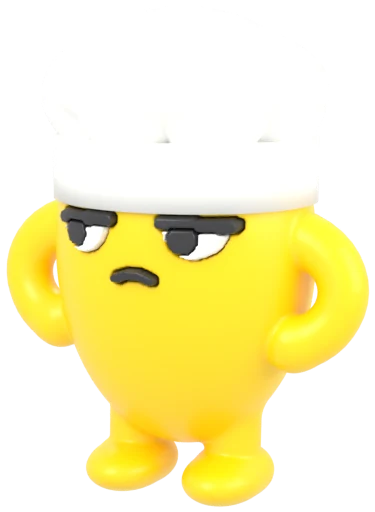
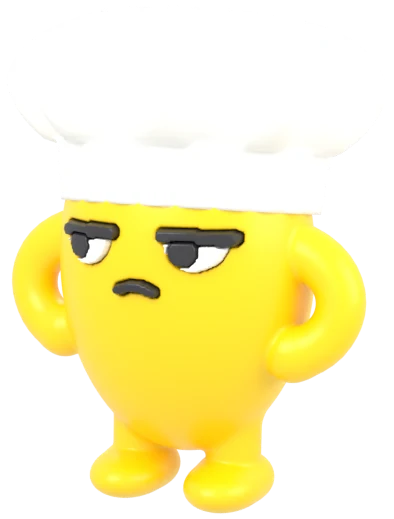
Collection : variantes retravaillées (bonnet ajusté, vraie toque, drap de fantôme, Zeste doré couronné sur socle)
Claude-Session: https://claude.ai/code/session_01TrTqVLma8bUChQu6ezP7G3

diff --git a/index.html b/index.html
@@ -936,7 +936,7 @@
       <h2 id="t-mascottes">La collection Noméo</h2>
       <p class="mg-intro">Flocon, Zeste et Dodo en mini-figurines à collectionner, offertes avec vos commandes. Chaque figurine est numérotée, a sa rareté et arrive avec sa carte de collection. Une nouvelle série à chaque saison.</p>
       <div class="cl-head"><h3>Série 1 · Hiver 2026</h3><ul class="cl-legend" aria-label="Raretés"><li class="cl-c">Commune</li><li class="cl-r">Rare</li><li class="cl-sr">Super rare</li><li class="cl-l">Légendaire</li><li class="cl-s">Secrète</li></ul></div>
-      <ul class="cl-grid"><li class="cl-card k-c"><div class="cl-img"><img src="img/fig-001-flocon.webp" alt="" width="409" height="513" loading="lazy" decoding="async"></div><span class="cl-no">N°001</span><h3>Flocon</h3><span class="cl-badge">Commune</span></li><li class="cl-card k-c"><div class="cl-img"><img src="img/fig-002-zeste.webp" alt="" width="391" height="523" loading="lazy" decoding="async"></div><span class="cl-no">N°002</span><h3>Zeste</h3><span class="cl-badge">Commune</span></li><li class="cl-card k-c"><div class="cl-img"><img src="img/fig-003-dodo.webp" alt="" width="320" height="512" loading="lazy" decoding="async"></div><span class="cl-no">N°003</span><h3>Dodo</h3><span class="cl-badge">Commune</span></li><li class="cl-card k-r"><div class="cl-img cl-hid"><img src="img/fig-004-flocon-noel.webp" alt="" width="340" height="510" loading="lazy" decoding="async"><span class=cl-mq aria-hidden=true>?</span></div><span class="cl-no">N°004</span><h3>Flocon de Noël</h3><span class="cl-badge">Rare</span></li><li class="cl-card k-r"><div class="cl-img cl-hid"><img src="img/fig-005-zeste-pizzaiolo.webp" alt="" width="375" height="512" loading="lazy" decoding="async"><span class=cl-mq aria-hidden=true>?</span></div><span class="cl-no">N°005</span><h3>Zeste pizzaïolo</h3><span class="cl-badge">Rare</span></li><li class="cl-card k-sr"><div class="cl-img cl-hid"><img src="img/fig-006-dodo-fantome.webp" alt="" width="448" height="512" loading="lazy" decoding="async"><span class=cl-mq aria-hidden=true>?</span></div><span class="cl-no">N°006</span><h3>Dodo fantôme</h3><span class="cl-badge">Super rare</span></li><li class="cl-card k-l"><div class="cl-img cl-hid"><img src="img/fig-007-zeste-dore.webp" alt="" width="391" height="523" loading="lazy" decoding="async"><span class=cl-mq aria-hidden=true>?</span></div><span class="cl-no">N°007</span><h3>Zeste doré</h3><span class="cl-badge">Légendaire</span></li><li class="cl-card k-s"><div class="cl-img cl-hid"><img src="img/fig-003-dodo.webp" alt="" width="320" height="512" loading="lazy" decoding="async"><span class=cl-mq aria-hidden=true>?</span></div><span class="cl-no">N°008</span><h3>???</h3><span class="cl-badge">Secrète</span></li></ul>
+      <ul class="cl-grid"><li class="cl-card k-c"><div class="cl-img"><img src="img/fig-001-flocon.webp" alt="" width="409" height="513" loading="lazy" decoding="async"></div><span class="cl-no">N°001</span><h3>Flocon</h3><span class="cl-badge">Commune</span></li><li class="cl-card k-c"><div class="cl-img"><img src="img/fig-002-zeste.webp" alt="" width="391" height="523" loading="lazy" decoding="async"></div><span class="cl-no">N°002</span><h3>Zeste</h3><span class="cl-badge">Commune</span></li><li class="cl-card k-c"><div class="cl-img"><img src="img/fig-003-dodo.webp" alt="" width="320" height="512" loading="lazy" decoding="async"></div><span class="cl-no">N°003</span><h3>Dodo</h3><span class="cl-badge">Commune</span></li><li class="cl-card k-r"><div class="cl-img cl-hid"><img src="img/fig-004-flocon-noel.webp" alt="" width="368" height="509" loading="lazy" decoding="async"><span class=cl-mq aria-hidden=true>?</span></div><span class="cl-no">N°004</span><h3>Flocon de Noël</h3><span class="cl-badge">Rare</span></li><li class="cl-card k-r"><div class="cl-img cl-hid"><img src="img/fig-005-zeste-pizzaiolo.webp" alt="" width="394" height="519" loading="lazy" decoding="async"><span class=cl-mq aria-hidden=true>?</span></div><span class="cl-no">N°005</span><h3>Zeste pizzaïolo</h3><span class="cl-badge">Rare</span></li><li class="cl-card k-sr"><div class="cl-img cl-hid"><img src="img/fig-006-dodo-fantome.webp" alt="" width="480" height="558" loading="lazy" decoding="async"><span class=cl-mq aria-hidden=true>?</span></div><span class="cl-no">N°006</span><h3>Dodo fantôme</h3><span class="cl-badge">Super rare</span></li><li class="cl-card k-l"><div class="cl-img cl-hid"><img src="img/fig-007-zeste-dore.webp" alt="" width="361" height="548" loading="lazy" decoding="async"><span class=cl-mq aria-hidden=true>?</span></div><span class="cl-no">N°007</span><h3>Zeste doré</h3><span class="cl-badge">Légendaire</span></li><li class="cl-card k-s"><div class="cl-img cl-hid"><img src="img/fig-003-dodo.webp" alt="" width="320" height="512" loading="lazy" decoding="async"><span class=cl-mq aria-hidden=true>?</span></div><span class="cl-no">N°008</span><h3>???</h3><span class="cl-badge">Secrète</span></li></ul>
       <h3 class="cl-sub">Comment les avoir</h3>
       <ol class="cl-how"><li><b>Chaque commande</b><span>1 carte de collection offerte</span></li><li><b>Dès 25&nbsp;€</b><span>1 mini-figurine surprise et sa carte</span></li><li><b>Chaque tranche de 50&nbsp;€</b><span>1 booster&nbsp;: 2 mini-figurines surprises, chacune avec sa carte</span></li></ol>
       <p class="cl-gold"><b>Le Zeste doré n’existe qu’en un seul exemplaire.</b> Il est caché dans un booster. Celui qui le trouve le garde et reçoit en plus une carte cadeau de 100&nbsp;€ à dépenser sur le site.</p>
